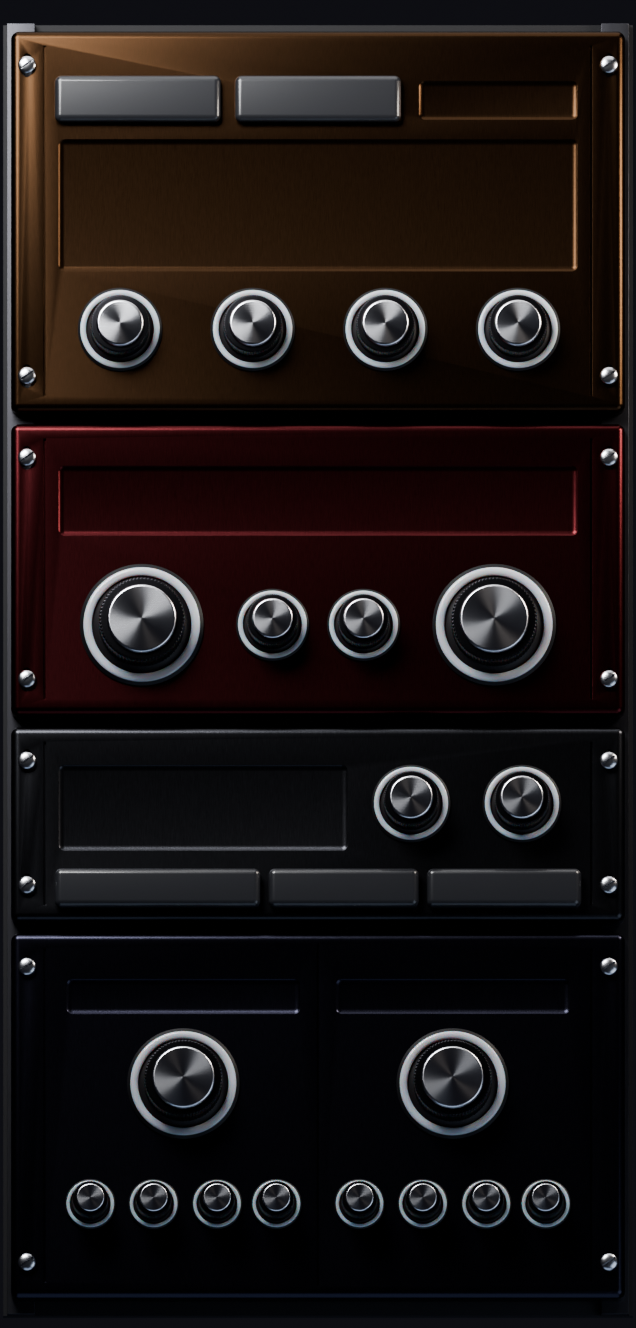
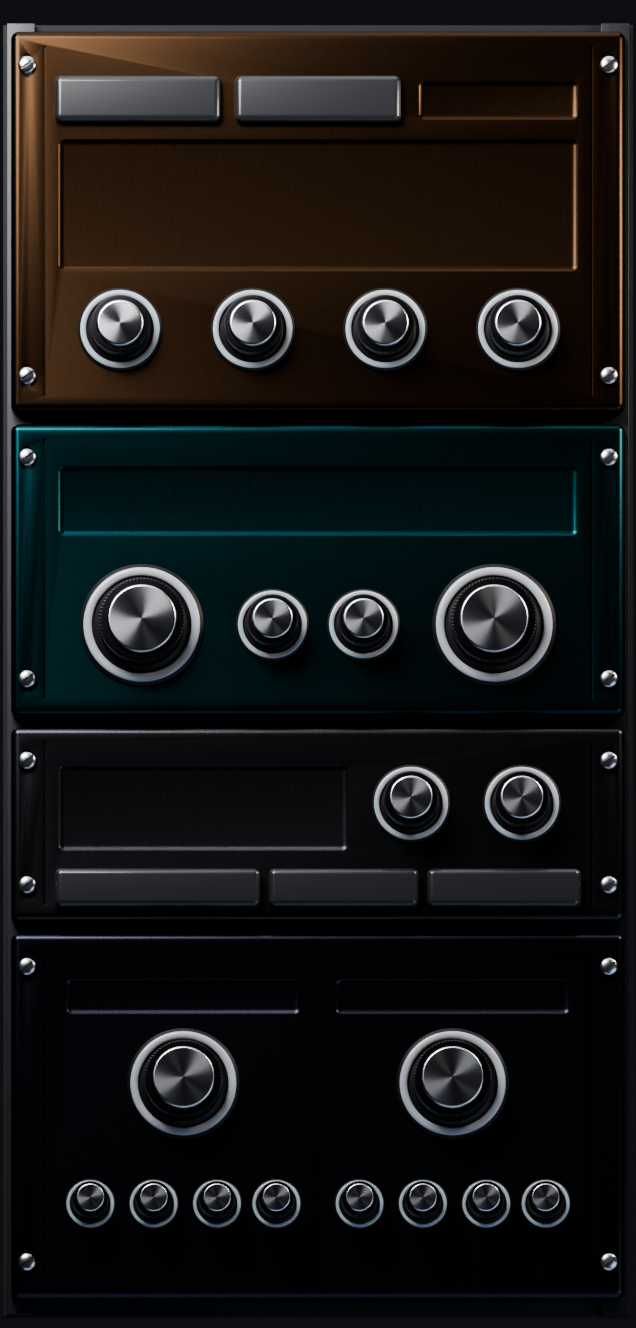
Mix mockup v4: teal transient designer, wider drum bus set apart by a machined divider, tracks packed closer
Claude-Session: https://claude.ai/code/session_01L82hSLmFFqHyAXxi7TCHqX

diff --git a/docs/mockups/mix_v4.html b/docs/mockups/mix_v4.html
@@ -1,0 +1,159 @@
+<!doctype html><html><head><meta charset="utf-8"><style>
+@font-face{font-family:IB;src:url(InterDisplay-Bold.otf)} @font-face{font-family:IS;src:url(InterDisplay-SemiBold.otf)}
+@font-face{font-family:IM;src:url(Inter-Medium.otf)} @font-face{font-family:MB;src:url(DejaVuSansMono-Bold.ttf)}
+html,body{margin:0;background:#000}
+</style></head><body><canvas id=c width=3360 height=2100 style="width:1680px;height:1050px"></canvas><script>
+const c=document.getElementById('c'),g=c.getContext('2d');g.scale(2,2);
+const L=s=>new Promise(r=>{const i=new Image();i.onload=()=>r(i);i.src=s});
+function txt(t,x,y,f,col,al='center'){g.font=f;g.fillStyle=col;g.textAlign=al;g.textBaseline='middle';g.fillText(t,x,y);}
+function hex(h,a){const n=parseInt(h.slice(1),16);return `rgba(${n>>16},${(n>>8)&255},${n&255},${a})`;}
+function mixc(h,w,t){const a=parseInt(h.slice(1),16),b=parseInt(w.slice(1),16);const r=Math.round(((a>>16)*(1-t)+(b>>16)*t)),gg=Math.round((((a>>8)&255)*(1-t)+((b>>8)&255)*t)),bb=Math.round(((a&255)*(1-t)+(b&255)*t));return `rgb(${r},${gg},${bb})`;}
+function arc(cx,cy,r,v,col,bip,w){const a0=Math.PI*0.75,a1=Math.PI*2.25;g.lineCap='round';g.strokeStyle='rgba(255,255,255,0.08)';g.lineWidth=w;g.beginPath();g.arc(cx,cy,r,a0,a1);g.stroke();
+ const s=bip?Math.PI*1.5:a0,e=bip?Math.PI*1.5+(v-0.5)*1.5*Math.PI:a0+v*1.5*Math.PI;g.save();g.shadowColor=col;g.shadowBlur=10;g.strokeStyle=col;g.lineWidth=w;g.beginPath();g.arc(cx,cy,r,Math.min(s,e),Math.max(s,e));g.stroke();g.restore();}
+const dbF=db=>{const m=[[6,0],[0,0.12],[-6,0.27],[-12,0.42],[-24,0.62],[-40,0.8],[-60,0.97]];for(let i=0;i<m.length-1;i++)if(db<=m[i][0]&&db>=m[i+1][0]){const u=(m[i][0]-db)/(m[i][0]-m[i+1][0]);return m[i][1]+u*(m[i+1][1]-m[i][1]);}return 1;};
+// the liquid tube: glass drawn over glowing liquid
+function tube(x,y,w,h,lev,peak,col,flash,seed){
+ const r=w/2;
+ const clip=()=>{g.beginPath();g.roundRect(x,y,w,h,r);};
+ // the empty glass: deep tinted interior
+ g.save();clip();g.clip();
+ const gi=g.createLinearGradient(x,0,x+w,0);gi.addColorStop(0,'rgba(10,12,16,0.95)');gi.addColorStop(0.5,'rgba(22,26,34,0.9)');gi.addColorStop(1,'rgba(8,9,12,0.95)');g.fillStyle=gi;g.fillRect(x,y,w,h);
+ // faint scale inside the glass
+ for(const d of [0,-6,-12,-24,-40]){const yy=y+dbF(d)*h;g.fillStyle='rgba(255,255,255,0.10)';g.fillRect(x+2,yy,w*0.3,1);}
+ // the liquid
+ const top=y+h*(1-lev), t=seed;
+ const lg=g.createLinearGradient(0,y+h,0,top);lg.addColorStop(0,mixc(col,'#000000',0.55));lg.addColorStop(0.55,col);lg.addColorStop(1,mixc(col,'#ffffff',0.45));
+ g.fillStyle=lg;g.beginPath();g.moveTo(x,y+h);
+ for(let i=0;i<=24;i++){const xx=x+i/24*w;const wob=Math.sin(i/24*Math.PI*2+t)*1.6+Math.sin(i/24*Math.PI*5+t*2)*0.7;g.lineTo(xx,top+wob-(Math.sin(i/24*Math.PI))*2.2);}
+ g.lineTo(x+w,y+h);g.closePath();g.fill();
+ // a curved highlight band through the liquid (the cylinder's shading)
+ const sh=g.createLinearGradient(x,0,x+w,0);sh.addColorStop(0,'rgba(0,0,0,0.45)');sh.addColorStop(0.28,'rgba(255,255,255,0.0)');sh.addColorStop(0.42,'rgba(255,255,255,0.22)');sh.addColorStop(0.6,'rgba(255,255,255,0)');sh.addColorStop(1,'rgba(0,0,0,0.5)');
+ g.fillStyle=sh;g.fillRect(x,top-4,w,y+h-top+4);
+ // the meniscus: a bright skin
+ g.strokeStyle=mixc(col,'#ffffff',0.7);g.lineWidth=1.4;g.beginPath();for(let i=0;i<=24;i++){const xx=x+i/24*w;const wob=Math.sin(i/24*Math.PI*2+t)*1.6+Math.sin(i/24*Math.PI*5+t*2)*0.7;const yy=top+wob-(Math.sin(i/24*Math.PI))*2.2;i?g.lineTo(xx,yy):g.moveTo(xx,yy);}g.stroke();
+ // bubbles rising
+ let rs=seed*997;const rnd=()=>{rs=(rs*16807)%2147483647;return rs/2147483647;};
+ for(let i=0;i<9;i++){const by=top+8+rnd()*(y+h-top-14),bx=x+3+rnd()*(w-6),br=0.8+rnd()*1.8;g.strokeStyle='rgba(255,255,255,0.55)';g.lineWidth=0.7;g.beginPath();g.arc(bx,by,br,0,Math.PI*2);g.stroke();g.fillStyle='rgba(255,255,255,0.18)';g.fill();}
+ // the white-hot flash of a fresh hit, rising with the surface
+ if(flash){const fg=g.createLinearGradient(0,top-2,0,top+60);fg.addColorStop(0,'rgba(255,255,255,0.95)');fg.addColorStop(0.25,'rgba(255,255,255,0.5)');fg.addColorStop(1,'rgba(255,255,255,0)');g.fillStyle=fg;g.fillRect(x,top-3,w,62);}
+ g.restore();
+ // bloom: the liquid lights the trough around the tube
+ g.save();g.globalCompositeOperation='lighter';const bl=g.createRadialGradient(x+w/2,top+40,2,x+w/2,top+40,w*3);bl.addColorStop(0,hex(col.startsWith('#')?col:'#ffffff',0.22));bl.addColorStop(1,'rgba(0,0,0,0)');g.fillStyle=bl;g.fillRect(x-w*3,top-w*2,w*7,w*7);g.restore();
+ // the glass: rim, two specular streaks, end-cap glints
+ g.save();clip();g.clip();
+ const s1=g.createLinearGradient(x,0,x+w,0);s1.addColorStop(0,'rgba(255,255,255,0)');s1.addColorStop(0.16,'rgba(255,255,255,0.0)');s1.addColorStop(0.22,'rgba(255,255,255,0.55)');s1.addColorStop(0.3,'rgba(255,255,255,0.05)');s1.addColorStop(0.78,'rgba(255,255,255,0)');s1.addColorStop(0.86,'rgba(255,255,255,0.16)');s1.addColorStop(0.94,'rgba(255,255,255,0)');
+ g.fillStyle=s1;g.fillRect(x,y+r*0.6,w,h-r*1.2);
+ const eg=g.createRadialGradient(x+w*0.38,y+r*0.75,0,x+w*0.38,y+r*0.75,r*0.9);eg.addColorStop(0,'rgba(255,255,255,0.6)');eg.addColorStop(1,'rgba(255,255,255,0)');g.fillStyle=eg;g.fillRect(x,y,w,r*2);
+ g.restore();
+ g.strokeStyle='rgba(210,220,235,0.55)';g.lineWidth=1;g.beginPath();g.roundRect(x+0.5,y+0.5,w-1,h-1,r);g.stroke();
+ g.strokeStyle='rgba(0,0,0,0.7)';g.lineWidth=1;g.beginPath();g.roundRect(x-1,y-1,w+2,h+2,r+1);g.stroke();
+ // the peak bead: a glowing drop floating above the liquid, slowly sinking
+ const py=y+h*(1-peak);g.save();g.shadowColor=col;g.shadowBlur=12;const pb=g.createRadialGradient(x+w/2-1,py-1,0,x+w/2,py,w*0.32);pb.addColorStop(0,'#ffffff');pb.addColorStop(0.5,mixc(col,'#ffffff',0.5));pb.addColorStop(1,col);g.fillStyle=pb;g.beginPath();g.ellipse(x+w/2,py,w*0.3,w*0.22,0,0,Math.PI*2);g.fill();g.restore();
+}
+(async()=>{
+await document.fonts.load('10px IB');await document.fonts.load('10px IM');await document.fonts.load('10px MB');await document.fonts.load('10px IS');
+const bg=await L('bg.png'),sm=await L('strip_mono.png'),ss=await L('strip_stereo.png'),cap=await L('cap_small.png'),rack=await L('rack_mix2.png');
+const vio='#a78bff', cyan='#29e3ff', amber='#ffa040';
+g.drawImage(bg,0,0,1680,1050);
+g.fillStyle='#08090b';g.fillRect(64,334,1186,620);
+const K=0.885, Y0=344;
+const bus=await L('strip_bus.png'), div=await L('divider.png');
+const strips=[['Top','#29d3ff',false,['EQ','COMP','SATURATE'],-1.5,[0.66],[0.74],true,0.35,0,false],
+ ['Bottom','#3b8cff',false,['EQ','GATE'],-4,[0.62],[0.7],false,0.2,0,true],
+ ['Overheads','#a06bff',true,['TUBE EQ','COMP'],-6,[0.58,0.52],[0.66,0.61],false,0.15,0.4,false],
+ ['Room Mono','#8b5cff',false,['COMP'],-7,[0.5],[0.57],false,0,0,false],
+ ['Room Close','#8b5cff',true,[],-9,[0.44,0.46],[0.52,0.5],false,0,0,false],
+ ['Room Far','#8b5cff',true,['WIDTH'],-11,[0.38,0.4],[0.45,0.47],false,0,0,false],
+ ['Room Crush','#ff4fb0',true,['SATURATE','COMP'],-14,[0.42,0.4],[0.5,0.47],false,0,0,false],
+ ['Drum Bus','#ffa040',true,['COMP','SATURATE','EQ'],0,[0.8,0.78],[0.88,0.86],false,0.25,0.1,false,true]];
+// geometry of each strip render (panel px)
+const GEO={track:{W:112,ins:[8,96],r1:32,r2:80,pan:56,m:[12,42],s:[58,42],slot:34,read:[14,50],peakX:90},
+           bus:{W:144,ins:[8,128],r1:40,r2:104,pan:72,m:[14,56],s:[74,56],slot:48,read:[14,66],peakX:116}};
+const BW=144*K, DW=24*K, TW=112*K, TG=5;
+const xBus=1240-BW, xDiv=xBus-DW-6; const XS=[];for(let i=0;i<7;i++)XS.push(76+i*(TW+TG));XS.push(xBus);
+g.drawImage(div,xDiv,Y0,DW,690*K);
+
+strips.forEach((d,si)=>{
+ const [name,col,stereo,ins,fdb,lev,peak,sel,r1,r2,flash,master]=d;
+ const G=master?GEO.bus:GEO.track, Wp=G.W, x0=XS[si];
+ const P=(px,py)=>[x0+(Wp/2+(px-Wp/2)/1.01)*K,Y0+(345+(py-345)*0.98163/1.01)*K];
+ g.drawImage(master?bus:(stereo?ss:sm),x0,Y0,Wp*K,690*K);
+ g.save();g.globalCompositeOperation='overlay';g.fillStyle=hex(col,0.20);g.beginPath();g.roundRect(x0+4*K,Y0+4*K,(Wp-8)*K,682*K,6);g.fill();g.restore();
+ if(sel){g.save();g.strokeStyle=hex(col,0.9);g.shadowColor=col;g.shadowBlur=18;g.lineWidth=2;g.beginPath();g.roundRect(x0+1,Y0+1,Wp*K-2,690*K-2,7);g.stroke();g.restore();}
+ let [nx,ny]=P(8,8);const nw=(Wp-16)*K;
+ g.save();const lcd=g.createLinearGradient(0,ny,0,ny+24*K);lcd.addColorStop(0,hex(col,0.18));lcd.addColorStop(1,hex(col,0.06));g.fillStyle=lcd;g.beginPath();g.roundRect(nx+2,ny+2,nw-4,24*K-4,3);g.fill();g.restore();
+ g.save();g.shadowColor=col;g.shadowBlur=10;txt(name,nx+nw/2,ny+12*K,'600 10px IS',mixc(col,'#ffffff',0.55));g.restore();
+ for(let i=0;i<5;i++){const [ix,iy]=P(G.ins[0],40+i*26);const iw=G.ins[1]*K;const has=i<ins.length;
+  if(has){g.save();g.globalCompositeOperation='lighter';const kg=g.createLinearGradient(0,iy,0,iy+22*K);kg.addColorStop(0,hex(col,0.10));kg.addColorStop(1,hex(col,0.30));g.fillStyle=kg;g.beginPath();g.roundRect(ix+4,iy+3,iw-8,22*K-8,4);g.fill();g.restore();
+   g.save();g.shadowColor=col;g.shadowBlur=8;g.fillStyle=col;g.fillRect(ix+12,iy+22*K-6,iw-24,1.4);g.restore();}
+  txt(has?ins[i]:'',ix+iw/2,iy+10*K,'700 7.6px IB',has?'#f4f6fa':'#4a4f57');}
+ let [ax,ay]=P(G.r1,198);arc(ax,ay,(master?16.5:15)*K,r1,'#a78bff',false,2);txt('R1',ax,ay+(master?22:21)*K,'700 6.8px IB','#b9bec6');
+ [ax,ay]=P(G.r2,198);arc(ax,ay,(master?16.5:15)*K,r2,'#29e3ff',false,2);txt('R2',ax,ay+(master?22:21)*K,'700 6.8px IB','#b9bec6');
+ [ax,ay]=P(G.pan,250);arc(ax,ay,(master?19:17.5)*K,0.5,master?'#ffa040':'#ffffff',true,2);txt(master?'BAL':'C',ax,ay+(master?23:21.5)*K,'700 6.5px IB','#8b9099');
+ let [mx,my]=P(G.m[0],276);txt('M',mx+G.m[1]*K/2,my+10*K,'700 8px IB','#9aa0a9');[mx,my]=P(G.s[0],276);txt('S',mx+G.s[1]*K/2,my+10*K,'700 8px IB',si==1?'#ffd166':'#9aa0a9');
+ if(si==1){g.save();g.globalCompositeOperation='lighter';g.fillStyle='rgba(255,209,102,0.18)';g.beginPath();g.roundRect(mx+3,my+3,G.s[1]*K-6,20*K-6,3);g.fill();g.restore();}
+ const [fx,ft]=P(G.slot,306), fh=340*K*0.98163/1.01, cy=ft+dbF(fdb)*fh;
+ g.save();g.shadowColor=col;g.shadowBlur=8;g.fillStyle=hex(col,0.85);g.fillRect(fx-1.2,cy,2.4,ft+fh-cy);g.restore();
+ g.font='6.5px MB';g.textAlign='right';g.textBaseline='middle';
+ for(const dd of [6,0,-6,-12,-24,-40]){const yy=ft+dbF(dd)*fh;g.fillStyle='rgba(255,255,255,0.28)';g.fillRect(fx-16*K,yy,7*K,1);g.fillStyle='#6f767f';g.fillText(dd>0?'+'+dd:''+dd,fx-17*K,yy);}
+ g.drawImage(cap,fx-cap.width*0.25,cy-cap.height*0.25,cap.width*0.5,cap.height*0.5);
+ g.save();g.shadowColor=col;g.shadowBlur=6;g.fillStyle=col;g.fillRect(fx-cap.width*0.21,cy-1,cap.width*0.42,1.5);g.restore();
+ const tubes=master?[[92,19],[116,19]]:(stereo?[[71,15],[90,15]]:[[80,20]]);
+ tubes.forEach(([tx,tw],k)=>{const [px,py]=P(tx,306);tube(px,py,tw*K,340*K*0.98163/1.01,lev[k],peak[k],col,flash,si*3+k+1.3);});
+ const [rx,ry]=P(G.read[0],652);txt((fdb>0?'+':'')+fdb.toFixed(1),rx+G.read[1]*K/2,ry+11*K,'700 8.5px MB',master?'#ffa040':'#e8ecf2');
+ const pk=Math.max(...peak);const pdb=pk>0.88?-1.2:pk>0.8?-3.4:pk>0.7?-6.8:-10.5;
+ const tc=tubes.length==2?(tubes[0][0]+tubes[1][0]+tubes[1][1])/2:tubes[0][0]+tubes[0][1]/2;
+ txt(pdb.toFixed(1),P(tc,0)[0],ry+11*K,'700 8px MB',pdb>-2?'#ff5a5f':mixc(col,'#ffffff',0.4));
+});
+// ---------------------------------------------------------------- the rack
+const RX=1293, RY=335, RW=318, RH=664, kk=1.0;
+g.fillStyle='#050506';g.fillRect(RX-3,RY-3,RW+6,RH+6);g.drawImage(rack,RX,RY,RW,RH);
+const prx=1/1.01, pry=0.98163/1.01;
+const X=v=>RX+(159+(v-159)*prx)*kk, Y=v=>RY+(332+(v-332)*pry)*kk;
+function silk(t,x,y,col,s=8.5){g.font=`700 ${s}px IB`;g.fillStyle=col;g.textAlign='left';g.textBaseline='top';g.letterSpacing='2px';g.fillText(t,X(x),Y(y));g.letterSpacing='0px';}
+function key(x,y,w,h,t,on,col,en=true){if(on){g.save();g.globalAlpha=0.14;g.fillStyle=col;g.beginPath();g.roundRect(X(x+3),Y(y+1.5),w-6,h-6,3.5);g.fill();g.restore();g.fillStyle=col;g.fillRect(X(x+8),Y(y+h-4.5),w-16,1.6);}
+ txt(t,X(x+w/2),Y(y+h/2-1.6),'700 8px IB',!en?'#3e434b':on?'#f2f4f8':'#9aa0a9');}
+function knob(x,y,r,v,col,lab,val,bip){arc(X(x),Y(y-3),r*1.24,v,col,bip,3);txt(lab,X(x),Y(y+r*1.24+6),'700 6.8px IB','#d8c6b4');txt(val,X(x),Y(y+r*1.24+15),'700 7.8px MB',col);}
+// TONE
+silk('TONE',36,13,'#ffd2a6');
+key(26,30,84,24,'STANDARD',false,amber);key(117,30,84,24,'ALL FLAT',false,amber);
+txt('Top',X(216),Y(42),'500 10px IM','#e8ecf2','left');txt('CHANNEL',X(286),Y(42),'700 6px IB','#8b9099','right');
+{ // tone curve
+ const gx=32,gy=64,gw=254,gh=64; const f=[ -30,-24,-18,-9,-4,-8,-11,-12,-10,-9,-8,-7.5,-7,-6.5,-6,-6.5,-7,-8,-10,-13,-17];
+ const f2=f.map((v,i)=>v+(i>12&&i<17?2.2:0)+(i==5||i==6?-2:0)+(i<3?1.5:0));
+ g.fillStyle='rgba(255,255,255,0.08)';for(const t of [0.12,0.5,0.88]) g.fillRect(X(gx+t*gw),Y(gy),1,gh);
+ const P=(a,col,w,glow)=>{g.save();if(glow){g.shadowColor=col;g.shadowBlur=8}g.strokeStyle=col;g.lineWidth=w;g.beginPath();a.forEach((v,i)=>{const xx=X(gx+i/(a.length-1)*gw),yy=Y(gy+6+(-v/32)*(gh-12));i?g.lineTo(xx,yy):g.moveTo(xx,yy)});g.stroke();g.restore();};
+ P(f.map((v,i)=>v+(i>11?1.5*Math.sin(i):0)),'rgba(167,139,255,0.8)',1);P(f2,amber,1.8,true);P(f,'rgba(232,236,242,0.65)',1);
+ txt('WHITE: RECORDED  ·  AMBER: NOW  ·  VIOLET: REF',X(gx+gw-4),Y(gy+5),'700 6px IB','#8b9099','right');
+}
+const tc=['#29e3ff','#ff4fb0','#a78bff','#c8ff3d'];
+[['TONE',0.58,'+16',true],['CRACK',0.62,'+24',true],['RINGS',0.35,'35%',false],['TAME',0.25,'25%',false]].forEach((d,i)=>knob([59,126,193,260][i],160,15,d[1],tc[i],d[0],d[2],d[3]));
+// SHAPE: the transient designer
+silk('SHAPE',36,215,'#a8f0f0');txt('TRANSIENT DESIGNER',X(286),Y(219),'700 6.5px IB','#7fb8bb','right');
+{ const gx=32,gy=231,gw=254,gh=34;
+ const env=(a,s)=>{const p=[];for(let i=0;i<=120;i++){const t=i/120;let v=t<0.02?t/0.02:Math.exp(-(t-0.02)*(4.5-s))*(1+a*Math.exp(-(t-0.02)*40));p.push(Math.min(1,v));}return p;};
+ const draw=(p,col,w,glow)=>{g.save();if(glow){g.shadowColor=col;g.shadowBlur=8}g.strokeStyle=col;g.lineWidth=w;g.beginPath();p.forEach((v,i)=>{const xx=X(gx+i/120*gw),yy=Y(gy+gh-v*gh*0.92);i?g.lineTo(xx,yy):g.moveTo(xx,yy)});g.stroke();g.restore();};
+ draw(env(0.6,0.8),'#3ff0e0',1.8,true);draw(env(0,0),'rgba(232,236,242,0.65)',1);
+}
+knob(70,312,22,0.72,'#ff9a3d','ATTACK','+44',true);knob(248,312,22,0.4,'#c8ff3d','SUSTAIN','-20',true);
+knob(136,312,13,0.5,'#29e3ff','DECAY','+0',true);knob(182,312,13,0.5,'#a78bff','RELEASE','+0',true);
+// REFERENCE
+silk('REFERENCE',36,370,'#b9bec6',7.5);
+{ const wx=26,wy=382,ww=150,wh=48; for(let i=0;i<70;i++){const xx=X(wx+6+i*2),h=Math.exp(-i/14)*15*(0.6+0.4*Math.abs(Math.sin(i*1.7)));g.fillStyle='rgba(167,139,255,0.85)';g.fillRect(xx,Y(wy+20)-h,1.2,2*h+0.5);}
+ txt('Fav snare.wav',X(wx+6),Y(wy+wh-8),'500 8.5px IM','#e8ecf2','left');}
+knob(206,404,14,0.6,'#a78bff','MATCH CURVE','60%');knob(262,404,14,0.35,'#29e3ff','MATCH ENV','35%');
+key(26,438,104,20,'▶ REFERENCE VS MIX',false,vio);key(134,438,76,20,'CHANGE',false,vio);key(214,438,78,20,'REMOVE',false,vio);
+// REVERB: two units
+silk('REVERB',36,476,'#b9d4ff',7.5);
+[[26,'R1','ROOM','1.2 s',0.4,'#a78bff',['PRE','SIZE','TONE','WIDTH'],['8ms','62%','-2','100%']],[162,'R2','PLATE','2.4 s',0.62,'#29e3ff',['PRE','SIZE','TONE','WIDTH'],['20ms','80%','+1','120%']]].forEach(([ox,id,type,dec,v,col,labs,vals])=>{
+ txt(id,X(ox+10),Y(503),'700 9px IB',col,'left');txt(type,X(ox+65),Y(503),'700 9px IB','#e8ecf2');
+ g.fillStyle=col;g.beginPath();g.moveTo(X(ox+112),Y(500));g.lineTo(X(ox+120),Y(500));g.lineTo(X(ox+116),Y(505));g.fill();
+ arc(X(ox+65),Y(545),25,v,col,false,3.2);txt('DECAY',X(ox+65),Y(579),'700 6.8px IB','#c8d2e6');txt(dec,X(ox+65),Y(588),'700 8px MB',col);
+ labs.forEach((l,i)=>{const kx=ox+[18,50,82,112][i];arc(X(kx),Y(607),11.5,[0.2,0.6,0.45,0.7][i],col,i==2,1.8);txt(l,X(kx),Y(627),'700 6px IB','#9aa6bb');txt(vals[i],X(kx),Y(635),'700 6.5px MB',col);});
+});
+txt('100% WET  ·  FED BY EACH CHANNEL’S R1 / R2 SEND',X(159),Y(648),'700 6px IB','#5f6670');
+// header Mix tile status and notice
+g.fillStyle='#0b0c10';g.fillRect(470,966,520,22);txt('Mixer: 5 inserts per channel, R1 / R2 sends, the drum bus. Click a strip to edit its tone.',472,977,'500 11px IM','#8b9099','left');
+document.title='done';
+})();
+</script></body></html>

diff --git a/assets/render/render_meter.py b/assets/render/render_meter.py
@@ -10,7 +10,7 @@ os.environ['LD_ONLY'] = 'strip'
 import render_mix2 as M2
 
 W, H = 112, 690
-TUBES = { 'mono': [(80, 20)], 'stereo': [(71, 15), (90, 15)] }   # x (left), width; y 306 .. 646
+TUBES = { 'mono': [(80, 20)], 'stereo': [(71, 15), (90, 15)], 'bus': [(92, 19), (116, 19)] }   # x (left), width; y 306 .. 646
 
 def capsule(name, x, w, y0, y1, mat):
     r = w / 2 * U
@@ -23,12 +23,15 @@ def capsule(name, x, w, y0, y1, mat):
         s = bpy.context.object; bpy.ops.object.shade_smooth(); s.data.materials.append(mat)
 
 def scene():
+    global W
     R.W, R.H = W, H
     s = P.reset(); s.cycles.samples = 96
     M2.cam(s, W, H); M2.mats()
     return s
 
 def base(variant):
+    global W
+    W = 144 if variant == 'bus' else 112
     s = scene(); s.render.film_transparent = False
     box('cavity', 0, 0, W, H, 0.05, -0.2, 0.001, 0.001, mat_principled('cav', (0.006, 0.006, 0.008), 0.7))
     plate = P.metal('anods', (0.07, 0.072, 0.08), 0.36, brushed=True, scale=28)
@@ -36,16 +39,21 @@ def base(variant):
     chrome = P.metal('chrome', (0.8, 0.81, 0.84), 0.12)
     for x in (3, W - 5): box('edge', x, 6, 2, H - 12, 0.02, 0.003, 0.006, 0.003, chrome)   # chrome edges
     glass = mat_principled('sglass', (0.004, 0.004, 0.006), 0.1, coat=1.0)
-    for (x, y, w, h) in [(8, 8, 96, 24), (14, 652, 50, 22)]:
+    for (x, y, w, h) in ([(8, 8, 128, 24), (14, 652, 66, 22)] if variant == 'bus' else [(8, 8, 96, 24), (14, 652, 50, 22)]):
         box('g', x, y, w, h, 0.012, 0.004, 0.02, 0.004, glass)
     slot = mat_principled('slot', (0.003, 0.003, 0.004), 0.6)
-    box('slot', 30, 306, 8, 340, 0.012, 0.004, 0.02, 0.003, slot)
+    box('slot', 44 if variant == 'bus' else 30, 306, 8, 340, 0.012, 0.004, 0.02, 0.003, slot)
     # the channel behind the tube(s): a dark, satin trough
     trough = mat_principled('trough', (0.01, 0.01, 0.012), 0.45)
     for (x, w) in TUBES[variant]: box('t', x - 3, 300, w + 6, 352, 0.02, -0.002, 0.03, 0.004, trough)
-    for i in range(5): button(8, 40 + i * 26, 96, 22)
-    knob(32, 198, 11); knob(80, 198, 11); knob(56, 250, 13)
-    button(12, 276, 42, 20); button(58, 276, 42, 20)
+    if variant == 'bus':
+        for i in range(5): button(8, 40 + i * 26, 128, 22)
+        knob(40, 198, 12); knob(104, 198, 12); knob(72, 250, 14)
+        button(14, 276, 56, 20); button(74, 276, 56, 20)
+    else:
+        for i in range(5): button(8, 40 + i * 26, 96, 22)
+        knob(32, 198, 11); knob(80, 198, 11); knob(56, 250, 13)
+        button(12, 276, 42, 20); button(58, 276, 42, 20)
     M2.lights(s)
     P.render(s, 'strip_' + variant + '.png')
 
@@ -76,6 +84,19 @@ def glass(variant):
     w.node_tree.nodes['Background'].inputs[0].default_value = (0.05, 0.055, 0.065, 1); w.node_tree.nodes['Background'].inputs[1].default_value = 1.0
     P.render(s, 'tube_' + variant + '.png')
 
-for v in ('mono', 'stereo'):
+def divider():
+    # the line between the tracks and the drum bus: a machined rail with a chrome inlay and screws
+    global W
+    W = 24
+    s = scene(); s.render.film_transparent = False
+    box('cavity', 0, 0, W, H, 0.05, -0.2, 0.001, 0.001, mat_principled('cav', (0.006, 0.006, 0.008), 0.7))
+    box('rail', 3, 3, 18, H - 6, 0.12, -0.06, 0.02, 0.01, P.metal('rail2', (0.09, 0.09, 0.1), 0.35, brushed=True, scale=10))
+    box('inlay', 10, 20, 4, H - 40, 0.02, 0.006, 0.01, 0.004, P.metal('chrome', (0.8, 0.81, 0.84), 0.12))
+    for y in (10, H - 10, H / 2): R.screw(12, y)
+    M2.lights(s)
+    P.render(s, 'divider.png')
+
+for v in [x for x in os.environ.get('LD_VARIANTS', 'mono,stereo').split(',') if x]:
     if os.environ.get('LD_GLASS_ONLY') is None: base(v)
-    glass(v)
+    if v != 'bus': glass(v)
+if os.environ.get('LD_DIVIDER'): divider()

diff --git a/assets/render/render_mix2.py b/assets/render/render_mix2.py
@@ -39,7 +39,7 @@ def rack():
     mverb = module('verb', 470, 188)
     R.ANOD = P.metal('anodc', (0.055, 0.03, 0.016), 0.28, brushed=True, scale=28)  # the strip: dark copper
     mtone = module('tone', 6, 196)
-    R.ANOD = P.metal('anodo', (0.075, 0.016, 0.018), 0.28, brushed=True, scale=28)  # the transient designer: oxblood
+    R.ANOD = P.metal('anodt', (0.008, 0.05, 0.058), 0.28, brushed=True, scale=28)  # the transient designer: deep teal, cool against the copper
     mshape = module('shape', 208, 150)
     for (x, y, w, h), m in [((208, 30, 84, 24), mtone), ((26, 60, 266, 72), mtone), ((26, 228, 266, 40), mshape),
                             ((26, 382, 150, 48), mref), ((30, 492, 122, 22), mverb), ((166, 492, 122, 22), mverb)]:
